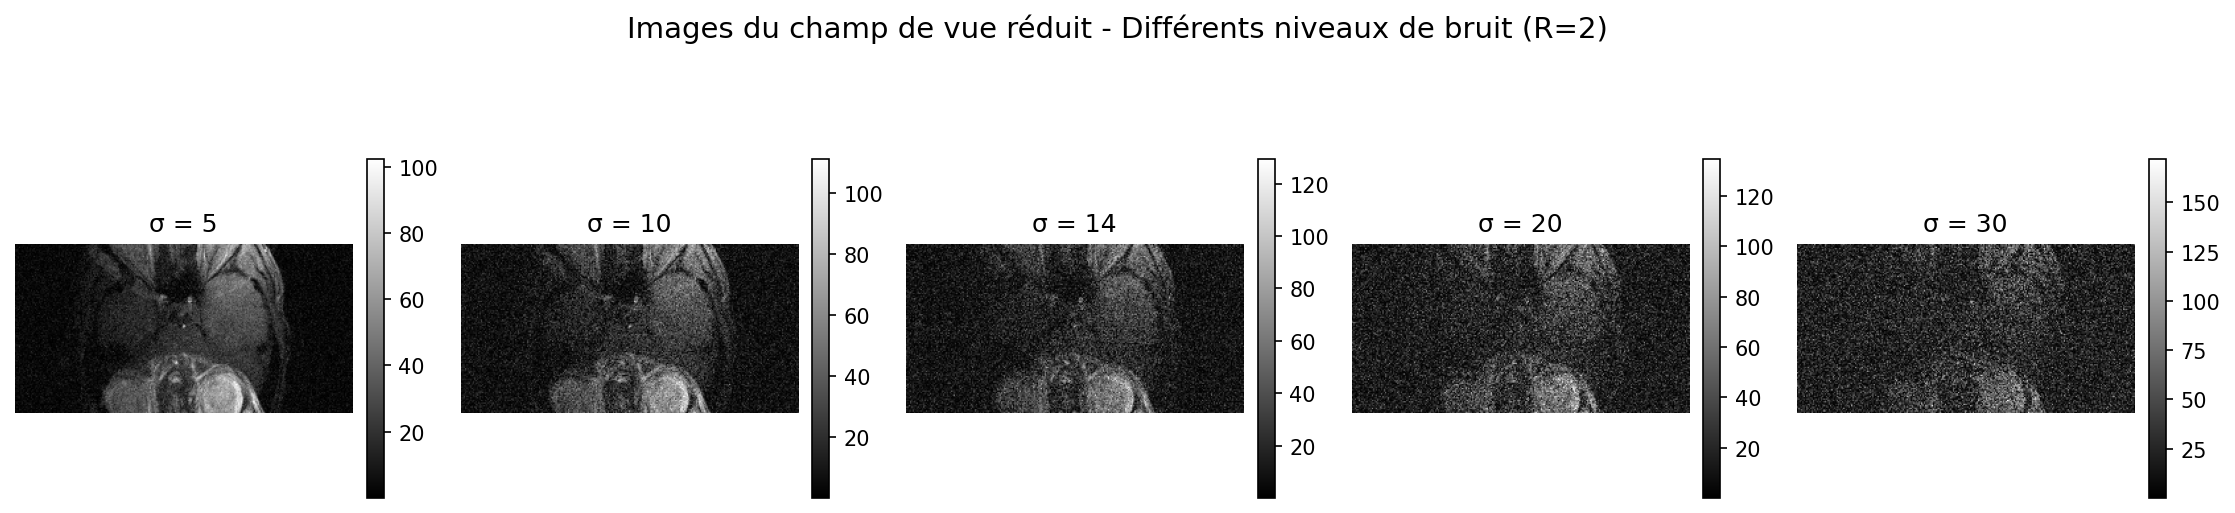
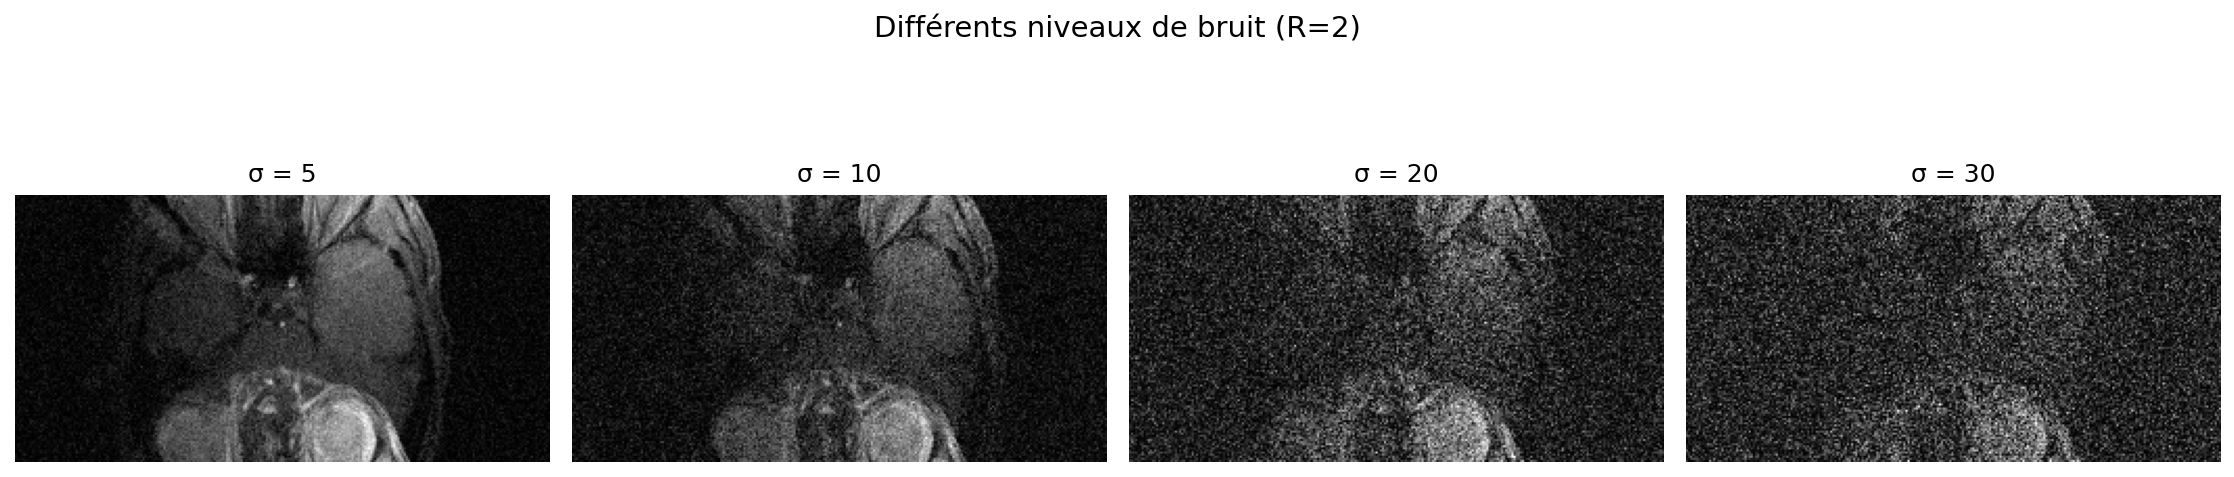
q3

diff --git a/main.py b/main.py
@@ -5,36 +5,35 @@ Created on Thu Mar  4 12:28:50 2021
 
 @author: chaari
 """
-#from mat4py import loadmat
+
 import h5py
 import scipy.io
 import numpy as np
 from utils import *
 import matplotlib
-matplotlib.use('Agg')  # Use non-interactive backend
+matplotlib.use('Agg') 
 import matplotlib.pyplot as plt
 from numpy import linalg as LA
 from math import log
 
 
-###########################################
-#        sload data for simulation        #
-###########################################
+# data pour simu
+
 loaded = scipy.io.loadmat('reference.mat')
 ref = loaded['im']
 loaded = scipy.io.loadmat('sens.mat')
 S = loaded['s']
-###########################################
-###########################################
 
 
 
-###########################################
-#          QUESTION 1                     #
-#  Simulation with different noise levels #
-###########################################
+
+
+
+
+#QUESTION 1
+
 R = 2
-noise_levels = [5, 10, 14, 20, 30]  # Different noise intensities
+noise_levels = [5, 10, 20, 30]
 results_q1 = {}
 
 fig, axes = plt.subplots(1, len(noise_levels), figsize=(15, 4))
@@ -43,7 +42,6 @@ for idx, sigma in enumerate(noise_levels):
     reduced_FoV = pMRI_simulator(S, ref, sigma, R)
     results_q1[sigma] = reduced_FoV
     
-    # Display first channel for visualization
     im = axes[idx].imshow(np.abs(reduced_FoV[:, :, 0]), cmap='gray')
     axes[idx].set_title(f'σ = {sigma}')
     axes[idx].axis('off')
@@ -52,17 +50,19 @@ plt.suptitle('Différents niveaux de bruit (R=2)', fontsize=14)
 plt.tight_layout()
 plt.savefig('q1_reduced_FoV_noise_comparison.png', dpi=150, bbox_inches='tight')
 
-print("Question 1 terminée: le bruit degrade progressivement la qualite des images, avec une degradation nettement plus forte pour sigma=30.")
 
 
-###########################################
-#          QUESTION 2                     #
-#      Same simulation with R=4           #
-###########################################
+
+
+
+
+
+#QUESTION 2
+
 R_q2 = 4
 results_q2 = {}
 
-fig, axes = plt.subplots(2, len(noise_levels), figsize=(16, 7))
+fig, axes = plt.subplots(2, len(noise_levels), figsize=(18, 8.5))
 
 for idx, sigma in enumerate(noise_levels):
      reduced_FoV_r4 = pMRI_simulator(S, ref, sigma, R_q2)
@@ -78,8 +78,54 @@ for idx, sigma in enumerate(noise_levels):
      axes[1, idx].set_title(f'R=4, σ={sigma}')
      axes[1, idx].axis('off')
 
-plt.suptitle('Question 2 - Comparison of Simulated Acquisitions: R=2 vs R=4', fontsize=14)
+plt.suptitle('Comparaison R=2 vs R=4', fontsize=14)
 plt.tight_layout()
 plt.savefig('q2_r2_vs_r4_noise_comparison.png', dpi=150, bbox_inches='tight')
 
-print("Question 2 terminée: pour un meme bruit, R=4 est plus degrade que R=2 a cause du sous-echantillonnage plus agressif.")
+
+
+
+
+
+# QUESTION 3
+
+Nc = S.shape[2]
+snr_r2 = []
+snr_r4 = []
+
+fig, axes = plt.subplots(2, len(noise_levels), figsize=(16, 7))
+
+for idx, sigma in enumerate(noise_levels):
+    psi = (sigma ** 2) * np.eye(Nc)
+
+    reconstructed_r2 = reconstruct(results_q1[sigma], S, psi)
+    reconstructed_r4 = reconstruct(results_q2[sigma], S, psi)
+
+    snr2 = SignalToNoiseRatio(ref, np.abs(reconstructed_r2))
+    snr4 = SignalToNoiseRatio(ref, np.abs(reconstructed_r4))
+    snr_r2.append(snr2)
+    snr_r4.append(snr4)
+
+    axes[0, idx].imshow(np.abs(reconstructed_r2), cmap='gray')
+    axes[0, idx].set_title(f'R=2, σ={sigma}\nSNR={snr2:.2f} dB', fontsize=11, pad=6)
+    axes[0, idx].axis('off')
+
+    axes[1, idx].imshow(np.abs(reconstructed_r4), cmap='gray')
+    axes[1, idx].set_title(f'R=4, σ={sigma}\nSNR={snr4:.2f} dB', fontsize=11, pad=6)
+    axes[1, idx].axis('off')
+
+plt.suptitle('Reconstructions et SNR (R=2 vs R=4)', fontsize=14, y=0.97)
+fig.subplots_adjust(top=0.90, hspace=0.18, wspace=0.05)
+plt.savefig('q3_reconstruction_r2_vs_r4.png', dpi=150)
+
+plt.figure(figsize=(7, 4))
+plt.plot(noise_levels, snr_r2, marker='o', label='R=2')
+plt.plot(noise_levels, snr_r4, marker='s', label='R=4')
+plt.xlabel('Niveau de bruit σ')
+plt.ylabel('SNR (dB)')
+plt.title('Question 3 - Comparaison du SNR')
+plt.grid(True, alpha=0.3)
+plt.legend()
+plt.tight_layout()
+plt.savefig('q3_snr_comparison.png', dpi=150, bbox_inches='tight')
+

diff --git a/utils.py b/utils.py
@@ -8,7 +8,6 @@ Created on Mon Mar  8 10:04:52 2021
 
 import numpy as np
 from numpy import linalg as LA
-from math import log
 
 def pMRI_simulator(S,ref,sigma,R):
     Nc = S.shape[2]
@@ -46,7 +45,8 @@ def reconstruct(reduced_FoV,S,psi):
                 indices.append((m+delta+r*Size_red)%Size)
             s = S[indices,n,:].transpose()
             A = reduced_FoV[m,n,:]
-            #reconstructed = ...
+            x_hat = np.linalg.pinv(s.transpose() @ psi_1 @ s) @ (s.transpose() @ psi_1 @ A)
+            reconstructed[indices,n] = np.real(x_hat)
     
     return reconstructed
             
@@ -61,7 +61,7 @@ def SignalToNoiseRatio(x_reference,x):
     noise_norm = LA.norm(noise.flatten())
     
     if noise_norm > 0:
-        snr = 20 * log10(signal_norm / noise_norm)
+        snr = 20 * np.log10(signal_norm / noise_norm)
     else:
         snr = float('inf')
     
